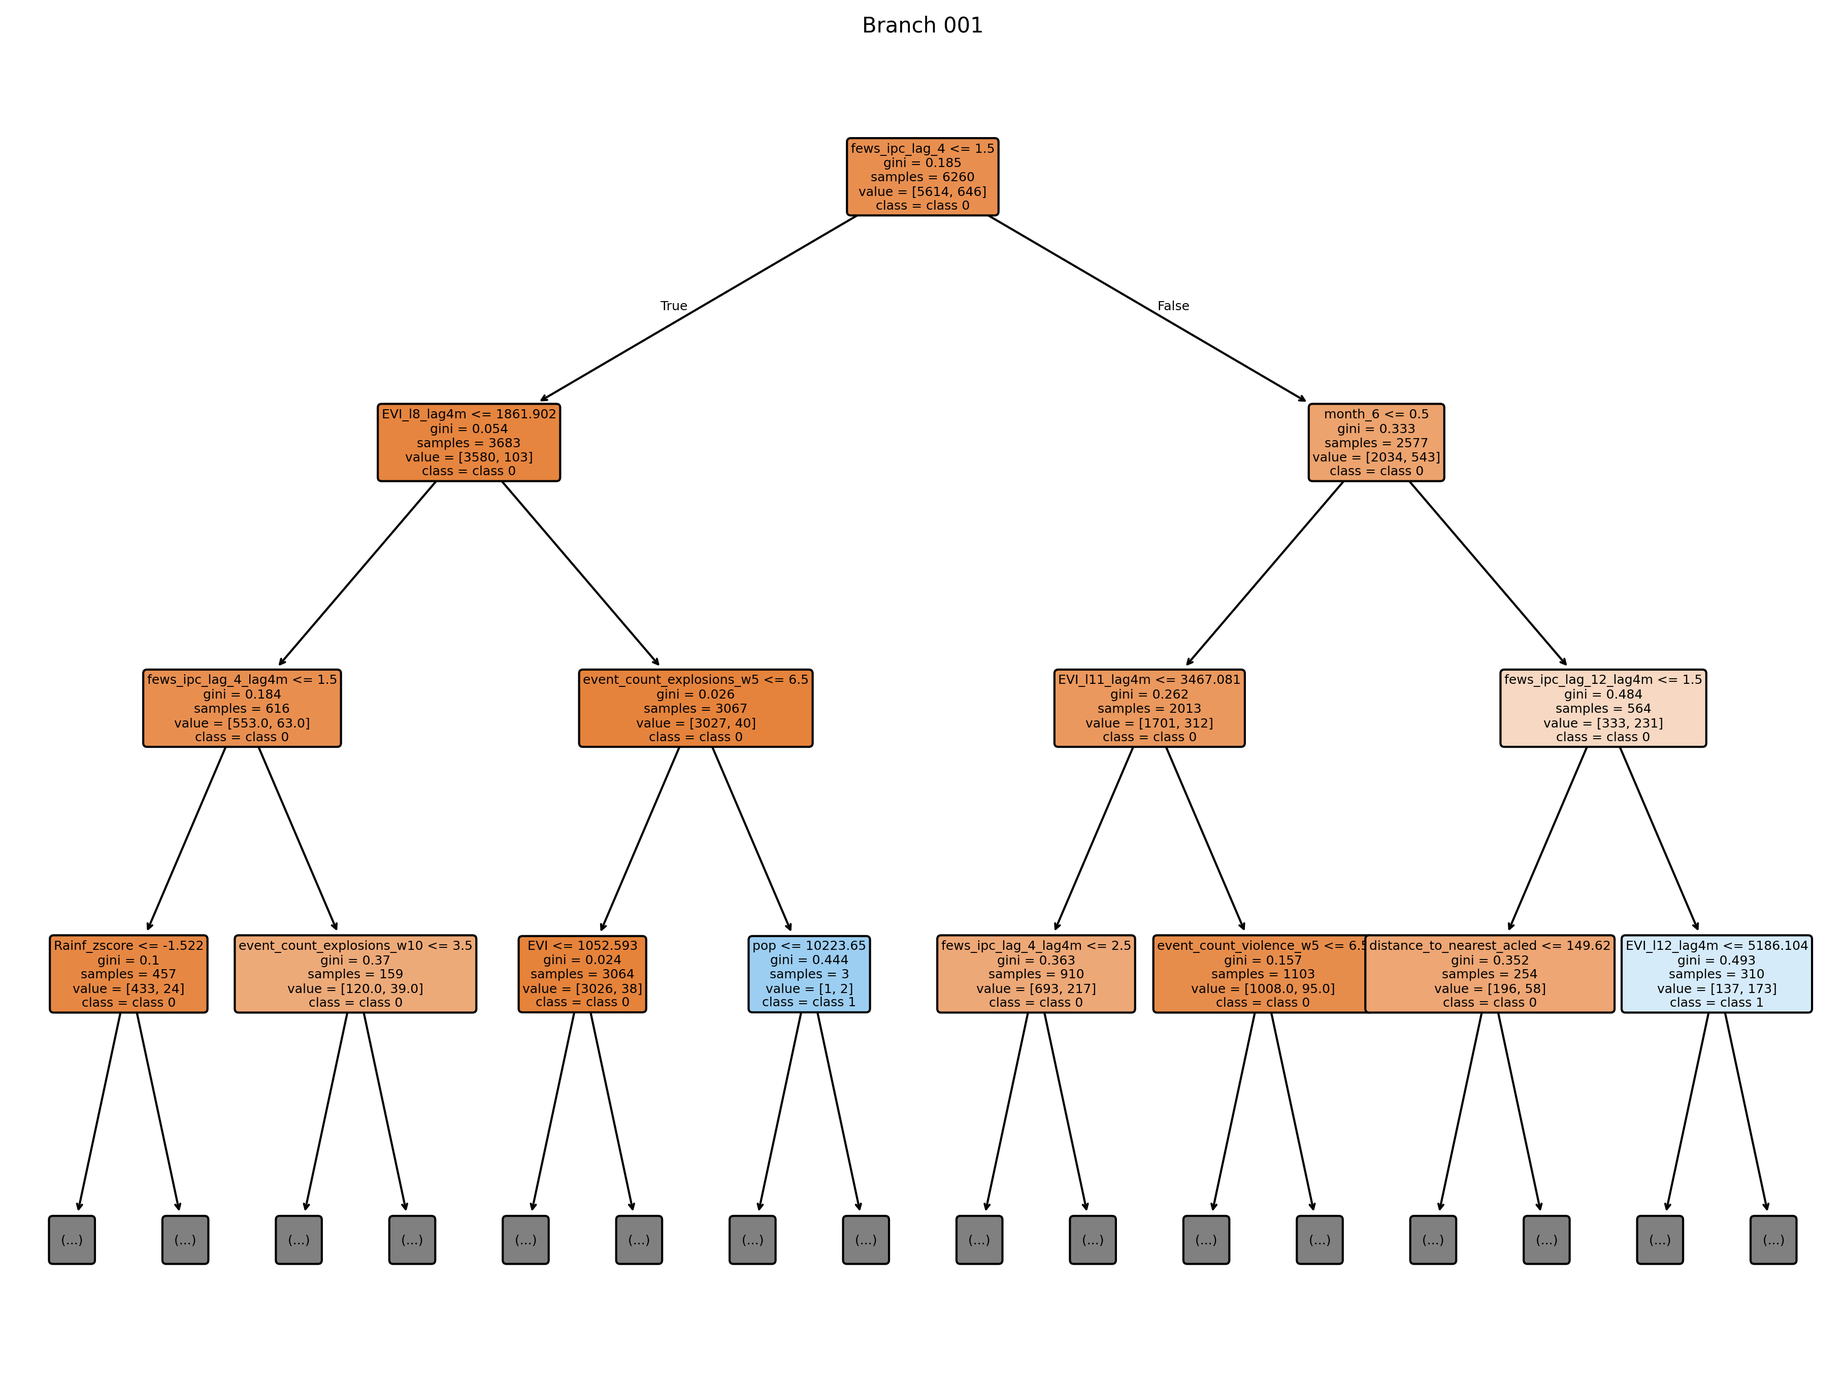
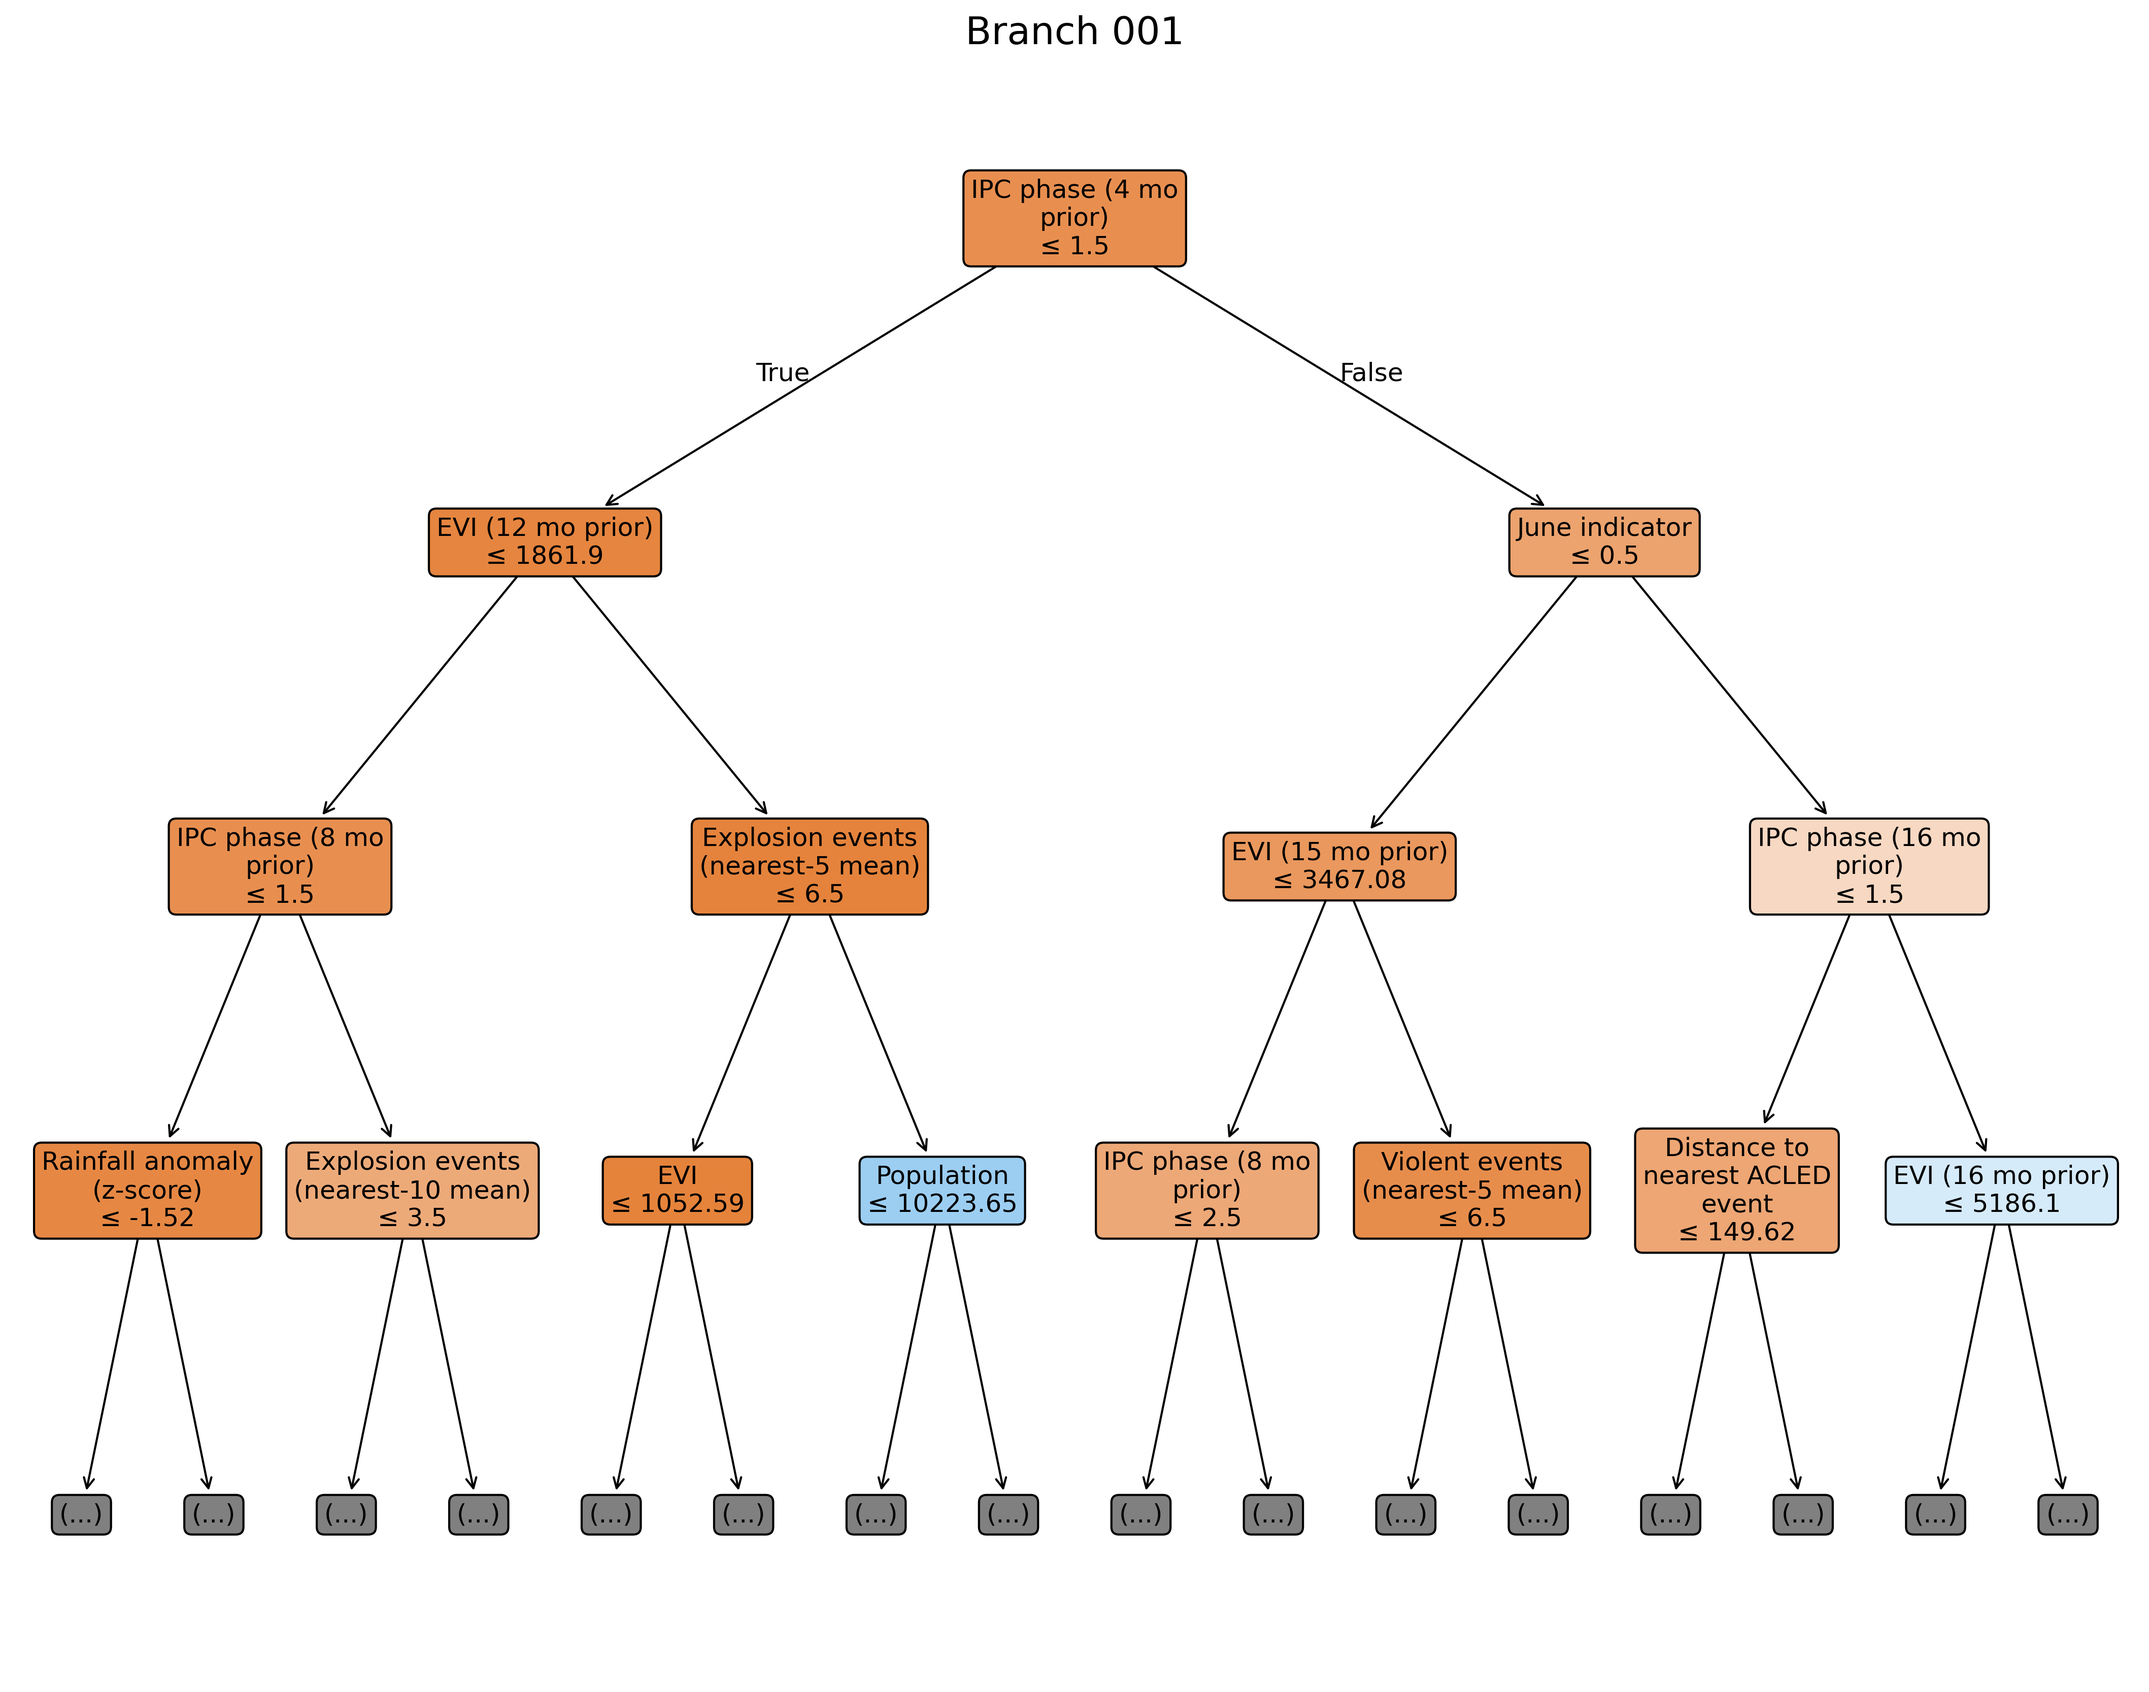
simplify geodt branch tree figures

diff --git a/scripts/paper_artifacts/plot_geodt_branch_tree_comparison.py b/scripts/paper_artifacts/plot_geodt_branch_tree_comparison.py
@@ -5,6 +5,7 @@ import json
 import pickle
 import re
 import sys
+import textwrap
 from collections import Counter
 from pathlib import Path
 from typing import Any
@@ -18,16 +19,95 @@ import pandas as pd
 from sklearn.tree import plot_tree
 
 
+matplotlib.rcParams.update(
+    {
+        "font.family": "sans-serif",
+        "font.sans-serif": ["Arial", "Helvetica", "DejaVu Sans", "sans-serif"],
+        "svg.fonttype": "none",
+        "pdf.fonttype": 42,
+    }
+)
+
+
 JSONDict = dict[str, Any]
 FIGURE_LAYOUT = {
-    "width_inches": 24,
-    "height_inches": 9,
-    "tree_fontsize": 6,
-    "title_fontsize": 10,
-    "suptitle_fontsize": 10,
+    "width_inches": 28,
+    "individual_width_inches": 14,
+    "height_inches": 11,
+    "tree_fontsize": 12,
+    "title_fontsize": 18,
+    "suptitle_fontsize": 14,
+    "condition_wrap_width_chars": 18,
     "dpi": 300,
     "uses_constrained_layout": True,
 }
+
+PAPER_FEATURE_LABELS = {
+    "EVI": "EVI",
+    "EVI_lag4m": "EVI (4 mo prior)",
+    "Rainf_zscore": "Rainfall anomaly (z-score)",
+    "event_count_explosions_w5": "Explosion events\n(nearest-5 mean)",
+    "event_count_explosions_w10": "Explosion events\n(nearest-10 mean)",
+    "event_count_violence_w5": "Violent events\n(nearest-5 mean)",
+    "pop": "Population",
+    "lat": "Latitude",
+    "market_distance_lag4m": "Market distance\n(4 mo prior)",
+    "distance_to_nearest_acled": "Distance to nearest ACLED event",
+    "distance_to_nearest_acled_lag4m": "Nearest ACLED-event distance\n(4 mo prior)",
+    "sg_phh2o_5-15cm": "Soil pH (H2O), 5-15 cm",
+}
+
+MONTH_NAMES = {
+    1: "January",
+    2: "February",
+    3: "March",
+    4: "April",
+    5: "May",
+    6: "June",
+    7: "July",
+    8: "August",
+    9: "September",
+    10: "October",
+    11: "November",
+    12: "December",
+}
+
+
+def _paper_feature_label(raw_name: str) -> str:
+    """Return a paper-friendly feature label without changing model values."""
+    if raw_name in PAPER_FEATURE_LABELS:
+        return PAPER_FEATURE_LABELS[raw_name]
+
+    ipc_match = re.fullmatch(r"fews_ipc_lag_(\d+)(?:_lag(\d+)m)?", raw_name)
+    if ipc_match:
+        lag_months = int(ipc_match.group(1)) + int(ipc_match.group(2) or 0)
+        return f"IPC phase ({lag_months} mo prior)"
+
+    crisis_match = re.fullmatch(
+        r"fews_ipc_crisis_lag_(\d+)(?:_lag(\d+)m)?", raw_name
+    )
+    if crisis_match:
+        lag_months = int(crisis_match.group(1)) + int(
+            crisis_match.group(2) or 0
+        )
+        return f"Crisis status ({lag_months} mo prior)"
+
+    evi_match = re.fullmatch(r"EVI_l(\d+)(?:_lag(\d+)m)?", raw_name)
+    if evi_match:
+        lag_months = int(evi_match.group(1)) + int(evi_match.group(2) or 0)
+        return f"EVI ({lag_months} mo prior)"
+
+    month_match = re.fullmatch(r"month_(\d+)", raw_name)
+    if month_match:
+        month_number = int(month_match.group(1))
+        if month_number in MONTH_NAMES:
+            return f"{MONTH_NAMES[month_number]} indicator"
+
+    aez_match = re.fullmatch(r"AEZ_(.+)", raw_name)
+    if aez_match:
+        return f"AEZ {aez_match.group(1)} indicator"
+
+    return re.sub(r"\s+", " ", raw_name.replace("_", " ")).strip()
 
 
 def build_parser() -> argparse.ArgumentParser:
@@ -822,8 +902,10 @@ def _readability_records(
                 "plotted_max_depth": max_plot_depth,
                 "matched_depth": True,
                 "matched_style": True,
-                "label_handling": "wrapped by sklearn plot_tree",
-                "minimum_font_size_pt": 8,
+                "label_handling": (
+                    "paper-friendly feature names with condition-only node text"
+                ),
+                "minimum_font_size_pt": FIGURE_LAYOUT["tree_fontsize"],
             }
     return records
 
@@ -902,15 +984,11 @@ def _render_pair(
         constrained_layout=FIGURE_LAYOUT["uses_constrained_layout"],
     )
     for axis, branch_id in zip(axes, pair):
-        plot_tree(
-            checkpoints[branch_id],
+        _plot_condition_only_tree(
+            axis=axis,
+            checkpoint=checkpoints[branch_id],
             feature_names=feature_names,
-            class_names=["class 0", "class 1"],
-            max_depth=max_plot_depth,
-            filled=True,
-            rounded=True,
-            fontsize=FIGURE_LAYOUT["tree_fontsize"],
-            ax=axis,
+            max_plot_depth=max_plot_depth,
         )
         axis.set_title(
             f"Branch {branch_id}",
@@ -919,6 +997,67 @@ def _render_pair(
     fig.savefig(png_path, dpi=FIGURE_LAYOUT["dpi"])
     plt.close(fig)
     return png_path
+
+
+def _plot_condition_only_tree(
+    *,
+    axis: Any,
+    checkpoint: Any,
+    feature_names: list[str],
+    max_plot_depth: int,
+) -> list[Any]:
+    """Render a tree with only interpretable split conditions in node boxes."""
+    artists = plot_tree(
+        checkpoint,
+        feature_names=[_paper_feature_label(name) for name in feature_names],
+        class_names=None,
+        max_depth=max_plot_depth,
+        filled=True,
+        rounded=True,
+        impurity=False,
+        precision=2,
+        fontsize=FIGURE_LAYOUT["tree_fontsize"],
+        ax=axis,
+    )
+    diagnostic_pattern = re.compile(
+        r"^(?:gini|entropy|log_loss|samples|value|class)\s*="
+    )
+    preserved_labels = {"true", "false", "(...)"}
+    for artist in artists:
+        if not hasattr(artist, "get_text") or not hasattr(artist, "set_text"):
+            continue
+        original_text = artist.get_text()
+        kept_lines: list[str] = []
+        for line in original_text.splitlines():
+            normalized = line.strip().lower()
+            if diagnostic_pattern.match(normalized):
+                break
+            kept_lines.append(line)
+
+        cleaned_text = "\n".join(kept_lines).strip()
+        if cleaned_text:
+            if " <= " in cleaned_text:
+                feature_label, threshold = cleaned_text.rsplit(" <= ", maxsplit=1)
+                wrapped_feature_lines: list[str] = []
+                for feature_line in feature_label.splitlines():
+                    wrapped_feature_lines.extend(
+                        textwrap.wrap(
+                            feature_line,
+                            width=FIGURE_LAYOUT["condition_wrap_width_chars"],
+                            break_long_words=False,
+                            break_on_hyphens=False,
+                        )
+                        or [feature_line]
+                    )
+                cleaned_text = "\n".join(
+                    [*wrapped_feature_lines, f"≤ {threshold}"]
+                )
+            artist.set_text(cleaned_text)
+        elif original_text.strip().lower() in preserved_labels:
+            artist.set_text(original_text.strip())
+        else:
+            artist.set_text("Leaf")
+    return artists
 
 
 def write_individual_tree_figure(
@@ -943,19 +1082,18 @@ def write_individual_tree_figure(
 
     output_path.parent.mkdir(parents=True, exist_ok=True)
     fig, axis = plt.subplots(
-        figsize=(FIGURE_LAYOUT["width_inches"] / 2, FIGURE_LAYOUT["height_inches"]),
+        figsize=(
+            FIGURE_LAYOUT["individual_width_inches"],
+            FIGURE_LAYOUT["height_inches"],
+        ),
         dpi=FIGURE_LAYOUT["dpi"],
         constrained_layout=FIGURE_LAYOUT["uses_constrained_layout"],
     )
-    plot_tree(
-        checkpoint,
+    _plot_condition_only_tree(
+        axis=axis,
+        checkpoint=checkpoint,
         feature_names=feature_names,
-        class_names=["class 0", "class 1"],
-        max_depth=max_plot_depth,
-        filled=True,
-        rounded=True,
-        fontsize=FIGURE_LAYOUT["tree_fontsize"],
-        ax=axis,
+        max_plot_depth=max_plot_depth,
     )
     axis.set_title(f"Branch {branch_id}", fontsize=FIGURE_LAYOUT["title_fontsize"])
     fig.savefig(output_path, dpi=FIGURE_LAYOUT["dpi"], bbox_inches="tight")
@@ -1083,7 +1221,17 @@ def _write_figure_metadata(
         "figure_layout": FIGURE_LAYOUT,
         "tie_break_result": selection["tie_break_result"],
         "rejected_higher_scoring_pairs": selection["rejected_higher_scoring_pairs"],
-        "class_label_policy": "neutral class 0/class 1 labels; no semantic class-name mapping was used",
+        "node_label_policy": (
+            "internal nodes show interpretable split conditions only; impurity, "
+            "samples, values, and predicted class are omitted"
+        ),
+        "feature_display_name_policy": (
+            "paper-friendly display labels derived from raw feature names; "
+            "thresholds remain on stored model scale"
+        ),
+        "class_label_policy": (
+            "class labels omitted from node text; sklearn fill shading retained"
+        ),
         "class_output_availability": "available from DecisionTree values; semantic class mapping unavailable",
         "selected_signatures": {
             branch_id: {

diff --git a/src/tests/test_geodt_branch_tree_diagnostic.py b/src/tests/test_geodt_branch_tree_diagnostic.py
@@ -184,6 +184,53 @@ def test_negative_fixture_set_covers_root_only_mismatch_and_out_of_bounds(
     ).strip() == "rainfall"
 
 
+@pytest.mark.parametrize(
+    ("raw_name", "expected_label"),
+    [
+        ("fews_ipc_lag_4", "IPC phase (4 mo prior)"),
+        ("fews_ipc_crisis_lag_4", "Crisis status (4 mo prior)"),
+        ("EVI_l11_lag4m", "EVI (15 mo prior)"),
+        ("event_count_explosions_w5", "Explosion events\n(nearest-5 mean)"),
+        (
+            "distance_to_nearest_acled_lag4m",
+            "Nearest ACLED-event distance\n(4 mo prior)",
+        ),
+        ("sg_phh2o_5-15cm", "Soil pH (H2O), 5-15 cm"),
+        ("month_6", "June indicator"),
+        ("AEZ_31000", "AEZ 31000 indicator"),
+    ],
+)
+def test_paper_feature_labels_are_interpretable(
+    raw_name: str, expected_label: str
+) -> None:
+    diagnostic = _load_diagnostic_module()
+
+    assert diagnostic._paper_feature_label(raw_name) == expected_label
+
+
+def test_tree_renderer_keeps_only_interpretable_split_conditions() -> None:
+    diagnostic = _load_diagnostic_module()
+    clf = _fit_tree()
+    fig, axis = diagnostic.plt.subplots(figsize=(8, 5))
+
+    artists = diagnostic._plot_condition_only_tree(
+        axis=axis,
+        checkpoint=clf,
+        feature_names=["fews_ipc_lag_4", "Rainf_zscore", "pop"],
+        max_plot_depth=2,
+    )
+    texts = [artist.get_text() for artist in artists if hasattr(artist, "get_text")]
+    diagnostic.plt.close(fig)
+
+    assert any("IPC phase" in text for text in texts)
+    assert any("\n≤ " in text for text in texts)
+    assert all(
+        forbidden not in text.lower()
+        for text in texts
+        for forbidden in ("gini", "samples", "value", "class =")
+    )
+
+
 def test_root_global_only_dt_rules_archive_is_incomplete_and_not_used_as_branch_source(
     negative_archives: dict[str, Path], tmp_path: Path
 ) -> None:
@@ -495,7 +542,7 @@ def test_figure_generation_writes_readable_png_metadata_and_neutral_labels(
     metadata_text = json.dumps(metadata)
     assert "branch-specific" in metadata_text.lower()
     assert "readability" in metadata_text.lower()
-    assert "class 0" in metadata_text.lower() or "class_0" in metadata_text.lower()
+    assert "class labels omitted" in metadata_text.lower()
     assert "crisis" not in metadata_text.lower()
     assert metadata["selected_archive"] == str(complete_geodt_archive)
     assert metadata["workflow_mode"] == "figure-generation"
@@ -510,8 +557,11 @@ def test_figure_generation_writes_readable_png_metadata_and_neutral_labels(
     assert metadata["readability_result"]["passes"] is True
     assert metadata["figure_layout"]["width_inches"] >= 24
     assert metadata["figure_layout"]["height_inches"] >= 8
-    assert metadata["figure_layout"]["tree_fontsize"] <= 6
+    assert metadata["figure_layout"]["tree_fontsize"] >= 12
     assert metadata["figure_layout"]["uses_constrained_layout"] is True
+    assert "condition-only" in metadata["readability_result"]["label_handling"]
+    assert metadata["node_label_policy"]
+    assert metadata["feature_display_name_policy"]
     assert "tie_break_result" in metadata
     assert "rejected_higher_scoring_pairs" in metadata
     assert set(metadata["selected_branch_ids"]) == set(
